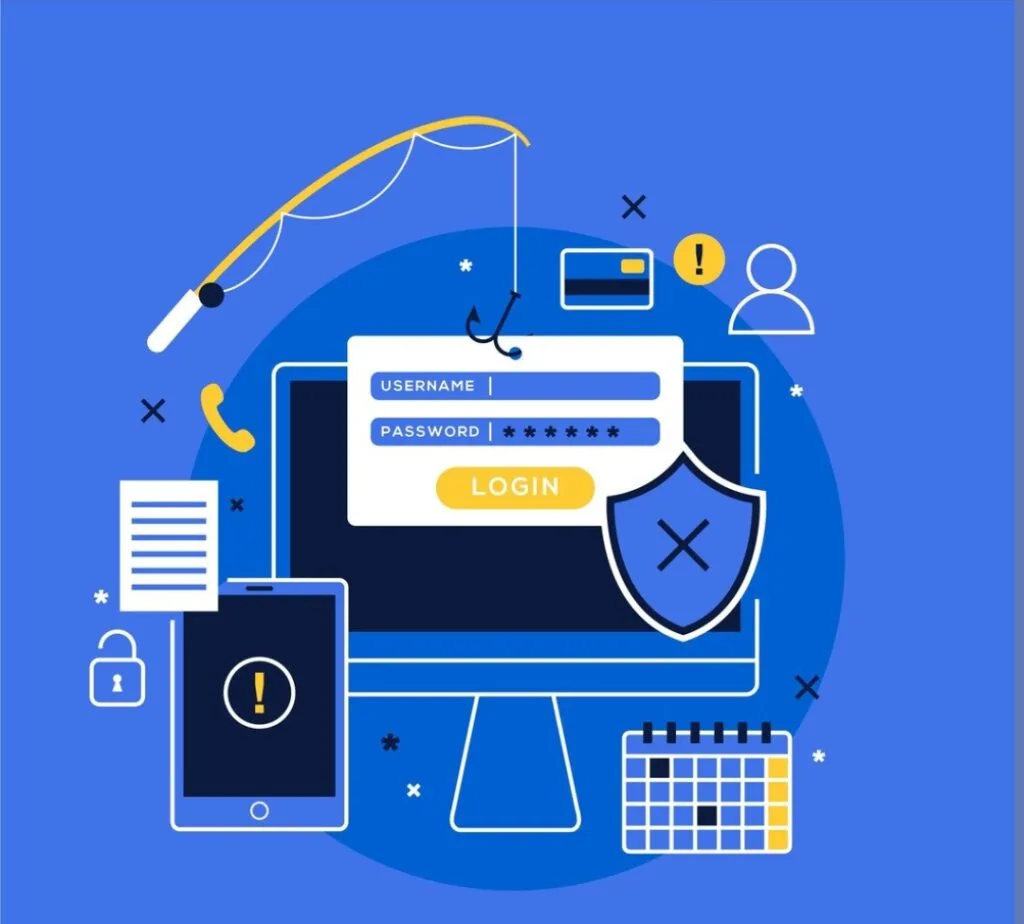
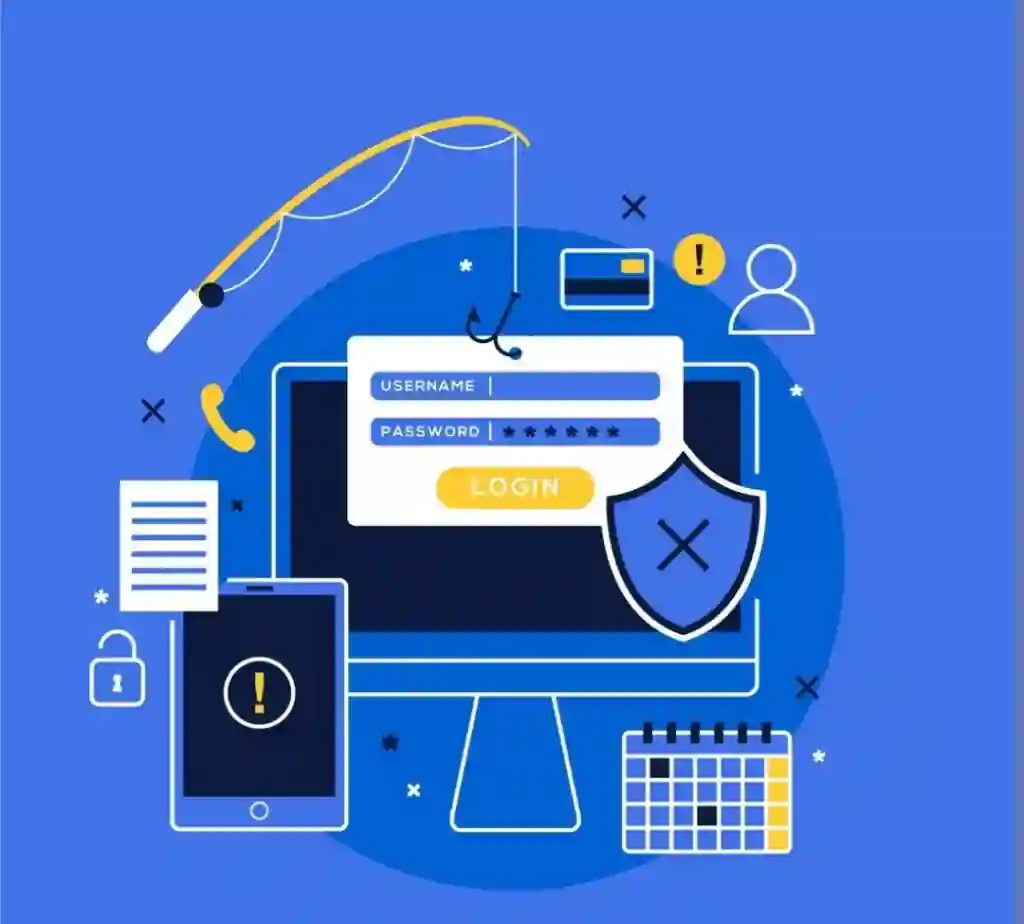
image size changed

diff --git a/src/pages/Portfolio.tsx b/src/pages/Portfolio.tsx
@@ -167,39 +167,39 @@ const Portfolio = () => {
   };
 
   const skills = [
-    { name: 'Python', icon: getPublicAssetUrl('images/python.png'), level: 85 },
-    { name: 'AWS', icon: getPublicAssetUrl('images/aws cloud.png'), level: 69 },
+    { name: 'Python', icon: getPublicAssetUrl('images/python.webp'), level: 85 },
+    { name: 'AWS', icon: getPublicAssetUrl('images/aws cloud.webp'), level: 69 },
     { name: 'Docker', icon: getPublicAssetUrl('images/docker.png'), level: 75 },
-    { name: 'Kubernetes', icon: getPublicAssetUrl('images/k8s.png'), level: 95 },
-    { name: 'Jenkins', icon: getPublicAssetUrl('images/jenkins.png'), level: 92 },
-    { name: 'Terraform', icon: getPublicAssetUrl('images/terraform.png'), level: 80 },
-    { name: 'GitHub', icon: getPublicAssetUrl('images/github.png'), level: 70 },
+    { name: 'Kubernetes', icon: getPublicAssetUrl('images/k8s.webp'), level: 95 },
+    { name: 'Jenkins', icon: getPublicAssetUrl('images/jenkins.webp'), level: 92 },
+    { name: 'Terraform', icon: getPublicAssetUrl('images/terraform.webp'), level: 80 },
+    { name: 'GitHub', icon: getPublicAssetUrl('images/github.webp'), level: 70 },
     { name: 'GitHub Actions', icon: getPublicAssetUrl('images/github action.png'), level: 70 },
-    { name: 'Bash', icon: getPublicAssetUrl('images/bash.png'), level: 70 },
-    { name: 'Grafana', icon: getPublicAssetUrl('images/grafana.png'), level: 70 },
-    { name: 'Prometheus', icon: getPublicAssetUrl('images/prometheus.png'), level: 70 },
-    { name: 'RedHat Linux', icon: getPublicAssetUrl('images/redhat.png'), level: 90 }
+    { name: 'Bash', icon: getPublicAssetUrl('images/bash.webp'), level: 70 },
+    { name: 'Grafana', icon: getPublicAssetUrl('images/grafana.webp'), level: 70 },
+    { name: 'Prometheus', icon: getPublicAssetUrl('images/prometheus.webp'), level: 70 },
+    { name: 'RedHat Linux', icon: getPublicAssetUrl('images/redhat.webp'), level: 90 }
   ];
 
   const projects = [
     {
       title: 'Autoscaling Web Application on AWS EKS 🚀',
       description: 'Deployed a containerized web application on a multi-node Kubernetes cluster with Terraform, automated CI/CD pipeline, and horizontal pod autoscaling on AWS.',
-      image: getPublicAssetUrl('images/autoscaling.jpg'),
+      image: getPublicAssetUrl('images/autoscaling.webp'),
       tech: ['Terraform', 'Kubernetes', 'Docker', 'AWS EKS','GitHub Actions','AWS S3'],
       github: 'https://github.com/gokul-s05/eks-devops-project',
     },
     {
       title: 'AWS EKS CI/CD Platform ⚙',
       description: 'Built a production-grade EKS platform with fully automated CI/CD pipeline for Docker image builds, ECR pushes, and zero-downtime Kubernetes deployments with real-time monitoring.',
-      image: getPublicAssetUrl('images/eks.png'),
+      image: getPublicAssetUrl('images/eks.webp'),
       tech: ['Grafana', 'Prometheus', 'Helm', 'Docker','AWS ECR','Terraform'],
       github: 'https://github.com/gokul-s05/eks-cicd-platform',
     },
     {
       title: 'Football Analytics Platform⚽',
       description: 'Built an AI platform leveraging ML and real-time data to analyze and predict football team performance.',
-      image: getPublicAssetUrl('images/football.jpg'),
+      image: getPublicAssetUrl('images/football.webp'),
       tech: ['Python', 'Streamlit', 'OpenCV', 'YOLOv8'],
       github: 'https://github.com/gokul-s05/football_analysis.git',
       demo: 'unavailable'
@@ -207,7 +207,7 @@ const Portfolio = () => {
     {
       title: 'Virtual Mouse🖱',
       description: 'Created a gesture-controlled virtual mouse using OpenCV for touchless cursor control via real-time hand tracking.',
-      image: getPublicAssetUrl('images/mouse.jpg'),
+      image: getPublicAssetUrl('images/mouse.webp'),
       tech: ['OpenCV', 'MediaPipe', 'Python','PyAutoGUI'],
       github: 'https://github.com/gokul-s05/virtual_mouse.git',
       demo: 'unavailable'
@@ -231,7 +231,7 @@ const Portfolio = () => {
     {
       title: 'Portfolio Website🌐',
       description: 'Modern portfolio website with smooth animations and responsive design.',
-      image: getPublicAssetUrl('images/portfolio.jpg'),
+      image: getPublicAssetUrl('images/portfolio.webp'),
       tech: ['React', 'Framer Motion', 'Tailwind CSS'],
       github: 'https://github.com/gokul-s05/my-portfolio',
       demo: 'https://gokul-s05.github.io/portfolio/',
@@ -240,7 +240,7 @@ const Portfolio = () => {
     {
       title: 'Employee Management System🛄',
       description: 'A Django-based Employee Management System with PostgreSQL, Bootstrap 5 UI, and Crispy Forms for smooth CRUD operations.',
-      image: getPublicAssetUrl('images/employee.png'),
+      image: getPublicAssetUrl('images/employee.webp'),
       tech: ['Django', 'PostgreSQL', 'Bootstrap', 'Git'],
       github: 'https://github.com/gokul-s05/employee-management-system.git',
     
@@ -314,56 +314,56 @@ const Portfolio = () => {
       title: 'Cyber Job Simulation',
       issuer: 'Deloitte / Forage',
       date: 'Sep 2025',
-      image: getPublicAssetUrl('images/Deloitte.png'),
+      image: getPublicAssetUrl('images/Deloitte.webp'),
       credentialUrl: 'https://forage-uploads-prod.s3.amazonaws.com/completion-certificates/9PBTqmSxAf6zZTseP/E9pA6qsdbeyEkp3ti_9PBTqmSxAf6zZTseP_sQyFDqhToW3FagtWh_1757235729943_completion_certificate.pdf'
     },
     {
       title: 'AWS Cloud Architecting',
       issuer: 'AWS Academy',
       date: 'Aug 2025',
-      image: getPublicAssetUrl('images/AWS.png'),
+      image: getPublicAssetUrl('images/AWS.webp'),
       credentialUrl: 'https://www.credly.com/badges/460bbe95-f1db-4a9d-b8eb-1a0ffa95466a/public_url'
     },
     {
       title: 'Solutions Architecture Job Simulation',
       issuer: 'AWS / Forage',
       date: 'Sep 2025',
-      image: getPublicAssetUrl('images/AWS forage.png'),
+      image: getPublicAssetUrl('images/AWS forage.webp'),
       credentialUrl: 'https://forage-uploads-prod.s3.amazonaws.com/completion-certificates/pmnMSL4QiQ9JCgE3W/kkE9HyeNcw6rwCRGw_pmnMSL4QiQ9JCgE3W_sQyFDqhToW3FagtWh_1757241032270_completion_certificate.pdf'
     },
     {
       title: 'Cybersecurity Analyst Job Simulation',
       issuer: 'TCS / Forage',
       date: 'Sep 2025',
-      image: getPublicAssetUrl('images/Tata cyber.png'),
+      image: getPublicAssetUrl('images/Tata cyber.webp'),
       credentialUrl: 'https://forage-uploads-prod.s3.amazonaws.com/completion-certificates/ifobHAoMjQs9s6bKS/gmf3ypEXBj2wvfQWC_ifobHAoMjQs9s6bKS_sQyFDqhToW3FagtWh_1757238290185_completion_certificate.pdf'
     },
     {
       title: 'Cybersecurity Intern',
       issuer: 'SkillCraft Technologies',
       date: 'June - July 2025',
-      image: getPublicAssetUrl('images/Skillcraft.png'),
+      image: getPublicAssetUrl('images/Skillcraft.webp'),
       credentialUrl: 'https://skillcrafttech.com/verify?id=SCT/JUN25/6339'
     },
     {
       title: 'Cyber security with Ethical Hacking Intern',
       issuer: 'Rinex',
       date: 'Sept - Oct 2023',
-      image: getPublicAssetUrl('images/rinex.png'),
+      image: getPublicAssetUrl('images/rinex.webp'),
       credentialUrl: 'https://drive.google.com/file/d/1n15ekL4GB29ouMPLOuatSH6w3MrGprY7/view?usp=sharing'
     },
     {
       title: 'Complete IP Addressing and Subnetting Course',
       issuer: 'Geek for Geeks',
       date: 'June - July 2025',
-      image: getPublicAssetUrl('images/geek for geeks.png'),
+      image: getPublicAssetUrl('images/geek for geeks.webp'),
       credentialUrl: 'https://media.geeksforgeeks.org/courses/certificates/f6dfe1b8d746d1da5f84027c74d4afcc.pdf'
     },
     {
       title: 'Cyber Security Foundation Certication',
       issuer: 'Infosys Springboard',
       date: 'Aug 2025',
-      image: getPublicAssetUrl('images/infosys.png'),
+      image: getPublicAssetUrl('images/infosys.webp'),
       credentialUrl: 'https://drive.google.com/file/d/1I08Aon7lIdr8gWfHtqELovQmK3yNtxZA/view?usp=drive_link'
     },
   ];
@@ -528,7 +528,7 @@ const Portfolio = () => {
   onContextMenu={(e) => e.preventDefault()}
 >
   <img
-    src={getPublicAssetUrl('images/gokul.jpg')}
+    src={getPublicAssetUrl('images/gokul.webp')}
     alt="Gokul - Profile"
     className="w-full h-full rounded-full object-cover select-none"
     draggable="false"

diff --git a/src/pages/Projects.tsx b/src/pages/Projects.tsx
@@ -16,7 +16,7 @@ const Projects = () => {
     {
       title: 'Autoscaling Web Application on AWS EKS 🚀',
       description: 'Deployed a containerized web application on a multi-node Kubernetes cluster with Terraform, automated CI/CD pipeline, and horizontal pod autoscaling on AWS.',
-      image: 'src/assets/autoscaling.jpg',
+      image: 'src/assets/autoscaling.webp',
       tech: ['Terraform','Kubernetes','Docker','AWS EKS','GitHub Actions','AWS S3'],
       github: 'https://github.com/gokul-s05/eks-devops-project',
       
@@ -24,14 +24,14 @@ const Projects = () => {
     {
       title: 'AWS EKS CI/CD Platform ⚙',
       description: 'Built a production-grade EKS platform with fully automated CI/CD pipeline for Docker image builds, ECR pushes, and zero-downtime Kubernetes deployments with real-time monitoring.',
-      image: 'src/assets/eks.png',
+      image: 'src/assets/eks.webp',
       tech: ['Grafana', 'Prometheus', 'Helm', 'Docker','AWS ECR','Terraform'],
       github: 'https://github.com/gokul-s05/eks-cicd-platform',
       
     },
     {title: 'Football Analytics Platform⚽',
       description: 'Built an AI platform leveraging ML and real-time data to analyze and predict football team performance.',
-      image: 'src/assets/football.jpg',
+      image: 'src/assets/football.webp',
       tech: ['Python', 'Streamlit', 'OpenCV', 'YOLOv8'],
       github: 'https://github.com/gokul-s05/football_analysis.git',
       demo: 'https://demo.com'
@@ -39,7 +39,7 @@ const Projects = () => {
     {
       title: 'virtual Mouse🖱',
       description: 'Created a gesture-controlled virtual mouse using OpenCV for touchless cursor control via real-time hand tracking.',
-      image: 'src/assets/mouse.jpg',
+      image: 'src/assets/mouse.webp',
       tech: ['OpenCV', 'MediaPipe', 'Python','PyAutoGUI'],
       github: 'https://github.com/gokul-s05/virtual_mouse.git',
       
@@ -63,7 +63,7 @@ const Projects = () => {
     {
       title: 'Portfolio Website🌐',
       description: 'Modern portfolio website with smooth animations and responsive design.',
-      image: 'src/assets/portfolio.jpg',
+      image: 'src/assets/portfolio.webp',
       tech: ['React', 'Framer Motion', 'Tailwind CSS'],
       github: 'https://github.com/gokul-s05/my-portfolio',
       demo: 'https://gokul-s05.github.io/portfolio/',
@@ -72,7 +72,7 @@ const Projects = () => {
     {
       title: 'Employee Management System🛄',
       description: 'A Django-based Employee Management System with PostgreSQL, Bootstrap 5 UI, and Crispy Forms for smooth CRUD operations.',
-      image: 'src/assets/employee.png',
+      image: 'src/assets/employee.webp',
       tech: ['Django', 'PostgreSQL', 'Bootstrap', 'Git'],
       github: 'https://github.com/gokul-s05/employee-management-system.git',
       

diff --git a/index.html b/index.html
@@ -6,7 +6,7 @@
     <title>Gokul's Portfolio</title>
     <meta name="description" content="Portfolio" />
     <meta name="author" content="Gokul" />
-    <link rel="icon" type="image/png" href="/myicon.png" />
+    <link rel="icon" type="image/png" href="/bracket.webp" />
 
     <meta property="og:title" content="Gokul's Portfolio" />
     <meta property="og:description" content="Portfolio" />
